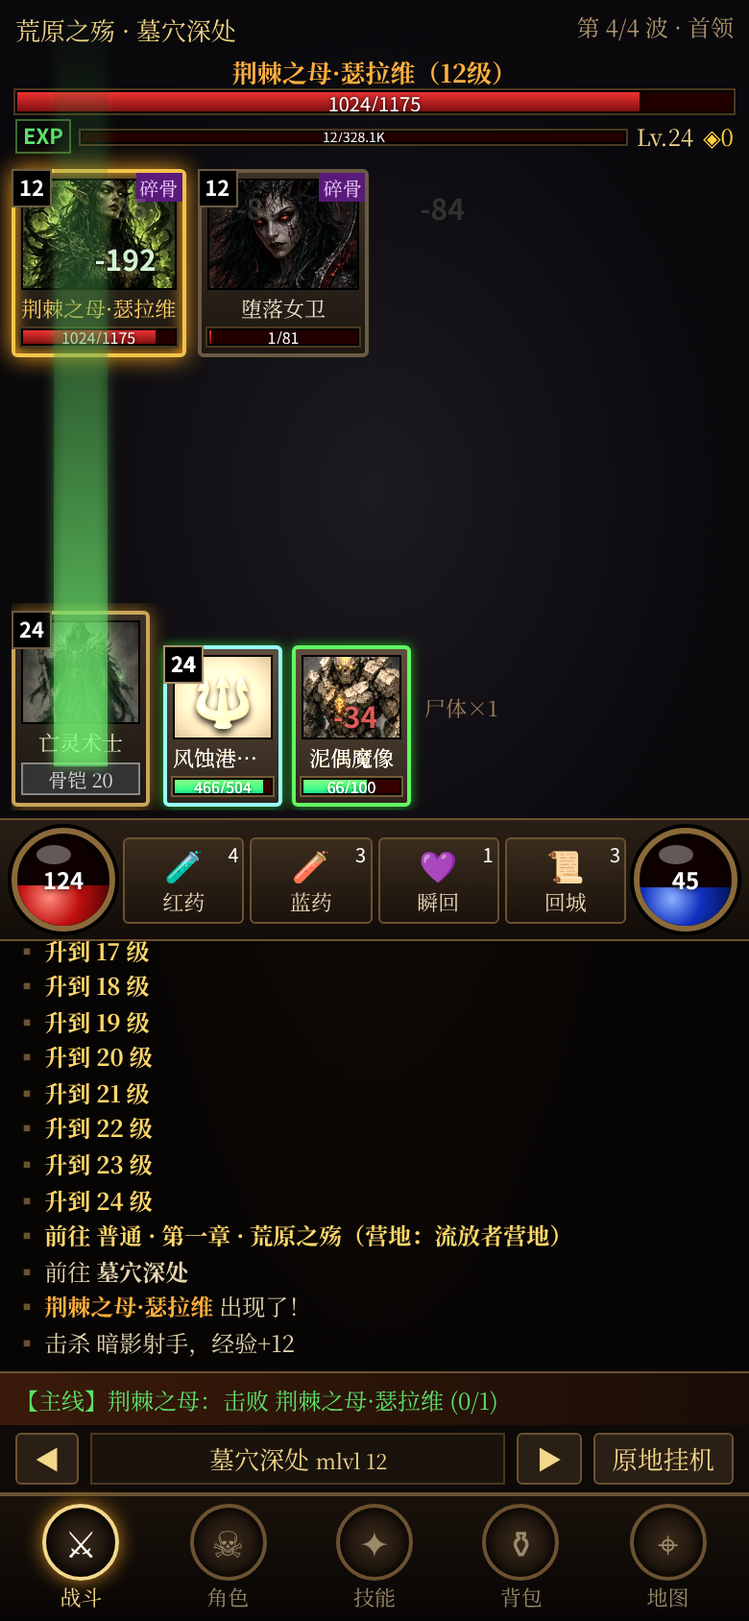
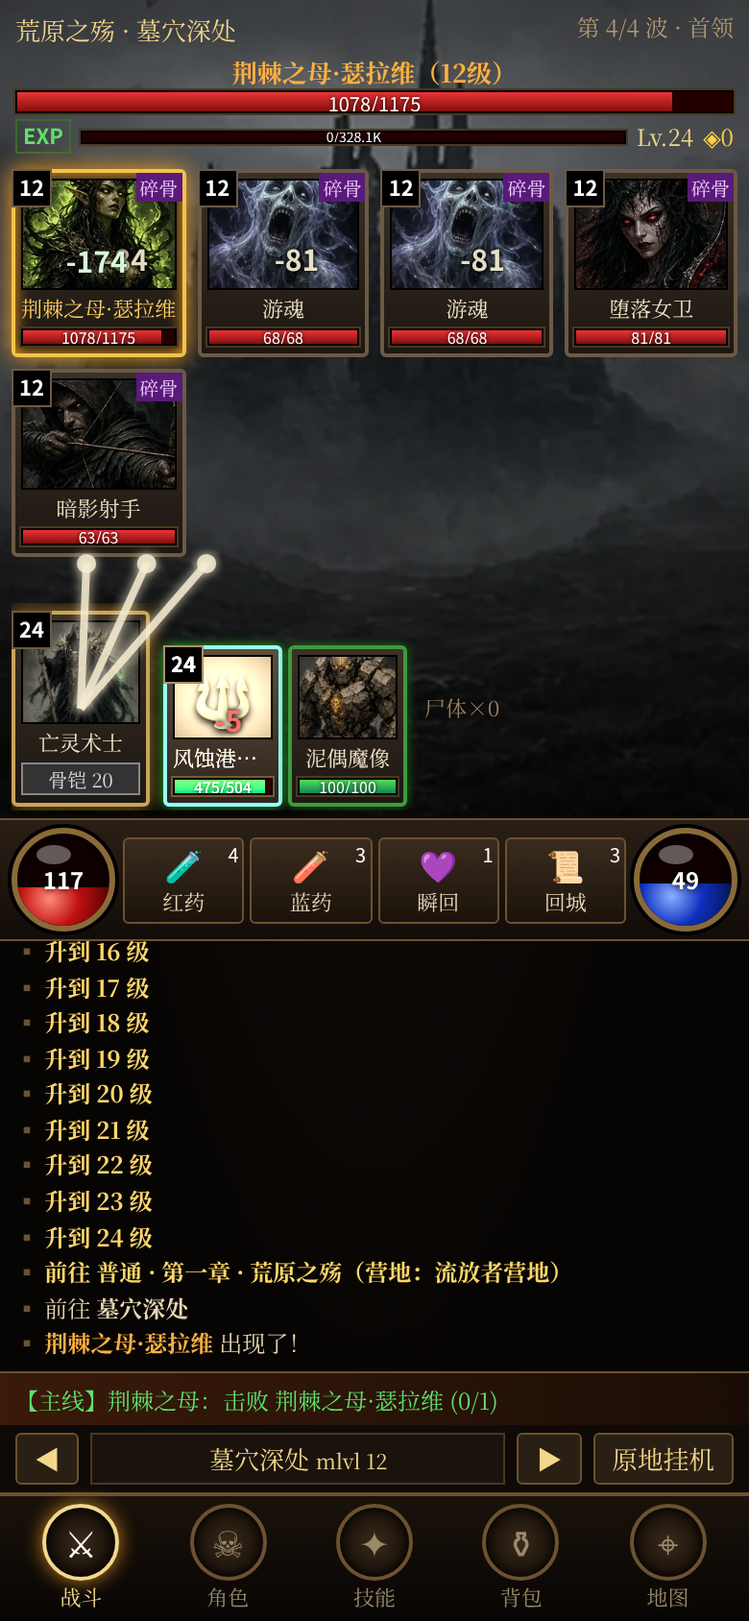
phase4: 二~五章怪物/首领/章节背景美术接入，难度调整(终点首领风险/连战受创/防卡死)，噩梦提速，自动加点续加骨魂，符文改编号显示

diff --git a/game.js b/game.js
@@ -31,7 +31,7 @@ function itemLocal(it){const b=BASEM[it.b],m=allMods(it),o={};
 function itemReq(it){const b=BASEM[it.b];let l=it.req||0;for(const x of it.soc||[])if(x.r!=null)l=Math.max(l,RUNES[x.r][1]);if(it.rw!=null)l=Math.max(l,RUNEWORDS[it.rw].lv);
  const f=it.q===0?0.8:1;return{lv:l,str:Math.floor((b.str||0)*f),dex:Math.floor((b.dex||0)*f)}}
 function canEquip(it){const r=itemReq(it),A=ST?ST.attr:S.at;return S.lvl>=r.lv&&A.str>=r.str&&A.dex>=r.dex}
-function itemName(it){if(it.k==='gem')return GEMG[it.lv]+GEMS[it.g].n;if(it.k==='rune')return RUNES[it.r][0]+' 符文';return it.rw!=null?RUNEWORDS[it.rw].n:it.name}
+function itemName(it){if(it.k==='gem')return GEMG[it.lv]+GEMS[it.g].n;if(it.k==='rune')return RUNES[it.r][0]+'符文';return it.rw!=null?RUNEWORDS[it.rw].n:it.name}
 function itemColor(it){if(it.k==='gem')return GEMS[it.g].c;if(it.k==='rune')return'#ffa040';if(it.rw!=null)return QC[8];if((it.q===1||it.q===2)&&it.sock)return'#a0a0a0';return QC[it.q]}
 function power(it){if(it.k)return 0;const m=allMods(it),l=itemLocal(it);let p=(l.def||0)*1+((l.min||0)+(l.max||0))*2;
  const w={str:3,dex:3,vit:4,ene:3,life:2,mana:1.5,ar:.2,fres:1.5,cres:1.5,lres:1.5,pres:1.2,allres:6,allsk:120,t0sk:60,t1sk:60,t2sk:60,fcr:3,mf:2,gf:.3,ll:8,ml:6,ias:3,regen:6,mpk:8,undead:.5,firemin:4,coldmin:4,lightmax:2,poisdmg:.3,tdef:1,dr:8,mdr:6,fhr:1.5,block:2,thorns:1,mregen:1,dmgmana:1,sumdmg:2,sumlife:2};
@@ -341,8 +341,8 @@ function addStat(k,n){n=Math.min(n,S.sp);S.at[k]+=n;S.sp-=n;calc();render()}
 
 // ===== 技能页 =====
 function renderSkills(){const P=$('#panel');const tabs=TREES.map((t,i)=>`<button class="${SKT===i?'on':''}" onclick="SKT=${i};render()">${t}</button>`).join('')+`<button class="${SKT===3?'on':''}" onclick="SKT=3;render()">符文图鉴</button>`;
- if(SKT===3){P.innerHTML=`<div class="stabs">${tabs}</div><div class="gp"><h3>符文图鉴</h3><div class="rgrid">${RUNES.map((r,i)=>S.found[i]?`<div class="rc on"><div class="ro">${r[0]}</div><b>${r[0]}符文</b><small>需求 ${r[1]} 级</small><small>武:${modsTxt(r[2])}</small><small>防:${modsTxt(r[3])}</small></div>`:`<div class="rc back"><div class="ro">?</div><small>未发现</small></div>`).join('')}</div></div>
-  <div class="gp"><h3>符文之语</h3>${RUNEWORDS.map(w=>`<div class="rw"><b class="uq">${w.n}</b> <span class="dim">${w.r.map(i=>RUNES[i][0]).join(' + ')} · ${w.cats.map(c=>({wand:'魔杖',dagger:'匕首',sword:'剑',helm:'头盔',armor:'铠甲',shield:'盾',head:'缩颅'})[c]).join('/')} ${w.r.length}孔 · 需求${w.lv}</span><div class="dim">${modsTxt(w.m)}</div></div>`).join('')}</div>`;return}
+ if(SKT===3){P.innerHTML=`<div class="stabs">${tabs}</div><div class="gp"><h3>符文图鉴</h3><div class="rgrid">${RUNES.map((r,i)=>S.found[i]?`<div class="rc on"><div class="ro">${i+1}</div><b>${r[0]}符文</b><small>需求 ${r[1]} 级</small><small>武:${modsTxt(r[2])}</small><small>防:${modsTxt(r[3])}</small></div>`:`<div class="rc back"><div class="ro">?</div><small>未发现</small></div>`).join('')}</div></div>
+  <div class="gp"><h3>符文之语</h3>${RUNEWORDS.map(w=>`<div class="rw"><b class="uq">${w.n}</b> <span class="dim">${w.r.map(i=>RUNES[i][0]).join('+')} · ${w.cats.map(c=>({wand:'魔杖',dagger:'匕首',sword:'剑',helm:'头盔',armor:'铠甲',shield:'盾',head:'缩颅'})[c]).join('/')} ${w.r.length}孔 · 需求${w.lv}</span><div class="dim">${modsTxt(w.m)}</div></div>`).join('')}</div>`;return}
  const list=SKILLS.filter(s=>s.t===SKT).sort((a,b)=>a.r-b.r||a.col-b.col);
  P.innerHTML=`<div class="stabs">${tabs}</div><div class="pts">技能点 <b>${S.kp}</b>　主攻：<b>${S.main?SKM[S.main].n:'自动'}</b>　诅咒：<b>${S.curse?SKM[S.curse].n:'自动'}</b></div>
  <div class="tree">${REQL.map((r,ri)=>`<div class="trow"><span class="rq">${r}</span>${[0,1,2].map(c=>{const s=list.find(x=>x.r===r&&x.col===c);return s?`<div class="tn ${bl(s.id)?'has':''} ${canLearn(s.id)?'can':''}" id="tn_${s.id}" onclick="skPop('${s.id}')">${skIcon(s)}<b>${bl(s.id)||''}</b></div>`:'<div class="tn void"></div>'}).join('')}</div>`).join('')}</div>
@@ -365,7 +365,7 @@ function learn(id){if(!canLearn(id))return;S.sk[id]=bl(id)+1;S.kp--;calc();skPop
 // ===== 背包/装备 =====
 function modsTxt(m){return Object.entries(m).map(([k,v])=>(MODT[k]||k+' {v}').replace('{v}',v)).join('，')}
 const SLOTG={weapon:'🪄',shield:'💀',helm:'⛑',armor:'🥋',gloves:'🧤',belt:'🎗',boots:'🥾',amulet:'📿',ring:'💍'};
-function itemIcon(it){if(it.k==='rune')return`<i class="ii rune">${RUNES[it.r][0]}</i>`;if(it.k==='gem')return`<i class="ii gem" style="--c:${GEMS[it.g].c}">◆</i>`;
+function itemIcon(it){if(it.k==='rune')return`<i class="ii rune">${it.r+1}</i>`;if(it.k==='gem')return`<i class="ii gem" style="--c:${GEMS[it.g].c}">◆</i>`;
  const b=BASEM[it.b];return`<i class="ii">${b.cat==='wand'?'🪄':b.cat==='dagger'?'🗡':b.cat==='sword'?'⚔':b.cat==='shield'?'🛡':SLOTG[slotOf(b)]}</i>`}
 function cell(it,on){return`<div class="cell q${it.q??'x'} ${it.rw!=null?'rw':''}" style="--c:${itemColor(it)}" onclick="${on}">${itemIcon(it)}${it.sock?`<em class="sk">${'●'.repeat((it.soc||[]).length)}${'○'.repeat(it.sock-(it.soc||[]).length)}</em>`:''}<small>${itemName(it)}</small></div>`}
 function renderBag(){const P=$('#panel');const doll=SLOTS.map(k=>{const it=S.eq[k];return it?`<div class="dslot">${cell(it,`showItem(${it.uid},'eq')`)}</div>`:`<div class="dslot"><div class="cell empty"><i class="ii">${SLOTG[k.startsWith('ring')?'ring':k]}</i><small>${SLOTN[k]}</small></div></div>`}).join('');
@@ -387,8 +387,8 @@ function showItem(uid){const f=findItem(uid);if(!f)return;const it=f.it;
  let base='';if(b.dmg){const enh=l.min!==it.dmg[0]||l.max!==it.dmg[1];base+=`<div>单手伤害：<span class="${enh?'g':''}">${l.min}-${l.max}</span>${enh?` <small class="dim">(基础 ${it.dmg[0]}-${it.dmg[1]})</small>`:''}</div>`}
  if(b.def){const enh=l.def!==it.def;base+=`<div>防御：<span class="${enh?'g':''}">${l.def}</span>${enh?` <small class="dim">(基础 ${it.def})</small>`:''}</div>`}if(b.block)base+=`<div>格挡：${b.block}%</div>`;
  const setT=it.set?`<div class="setsec"><b>${SETS[it.set].n}</b>（已装备 ${setCount()[it.set]||0} 件）${Object.entries(SETS[it.set].bonus).map(([n,bo])=>`<div class="${(setCount()[it.set]||0)>=+n?'g':'dim'}">${n}件：${modsTxt(bo)}</div>`).join('')}${SETITEMS.filter(x=>x.set===it.set).map(x=>`<div class="dim">· ${x.n}</div>`).join('')}</div>`:'';
- const rwT=it.rw!=null?`<div class="rwt">符文之语「${RUNEWORDS[it.rw].n}」『${RUNEWORDS[it.rw].r.map(i=>RUNES[i][0]).join('')}』</div><div class="g">${modsTxt(RUNEWORDS[it.rw].m)}</div>`:'';
- const socs=it.sock?`<div class="socks">${[...Array(it.sock)].map((_,i)=>{const x=it.soc[i];return x?`<span class="so on" style="--c:${x.g?GEMS[x.g].c:'#ffa040'}">${x.g?'◆':RUNES[x.r][0]}</span>`:'<span class="so"></span>'}).join('')}</div>
+ const rwT=it.rw!=null?`<div class="rwt">符文之语「${RUNEWORDS[it.rw].n}」『${RUNEWORDS[it.rw].r.map(i=>RUNES[i][0]).join('+')}』</div><div class="g">${modsTxt(RUNEWORDS[it.rw].m)}</div>`:'';
+ const socs=it.sock?`<div class="socks">${[...Array(it.sock)].map((_,i)=>{const x=it.soc[i];return x?`<span class="so on" style="--c:${x.g?GEMS[x.g].c:'#ffa040'}">${x.g?'◆':x.r+1}</span>`:'<span class="so"></span>'}).join('')}</div>
   <div>${it.soc.length?`<span class="g">${modsTxt(Object.fromEntries(Object.entries(sm).filter(([k])=>it.rw==null||!(k in RUNEWORDS[it.rw].m))))}</span>`:'<span class="dim">空凹槽可镶嵌宝石/符文；白色底材按配方顺序镶满符文可组成符文之语</span>'}</div>${rwT}`:'<span class="dim">无凹槽</span>';
  const cmp=f.slot?'':(()=>{const k=slotOf(b)==='ring'?'ring1':slotOf(b);const e=S.eq[k];return e?`<div class="dim">当前已装备：${itemName(e)}（战力 ${power(e)}）</div>`:''})();
  const canSock=it.sock>it.soc.length&&it.rw==null&&S.bag.some(x=>x.k);
@@ -415,9 +415,9 @@ function cubeUI(){const rec=[];const gc={},rc={};for(const x of S.bag){if(x.k===
  for(const k in gc)if(gc[k].length>=3)rec.push([`3×${itemName(gc[k][0])} → ${GEMG[gc[k][0].lv+1]}${GEMS[gc[k][0].g].n}`,`cubeGem('${k}')`]);
  for(const k in rc)if(rc[k].length>=3)rec.push([`3×${RUNES[k][0]}符文 → ${RUNES[+k+1][0]}符文`,`cubeRune(${k})`]);
  const has=(f)=>S.bag.find(f);const amu=has(x=>!x.k&&x.b==='amu'&&x.q===3),rin=has(x=>!x.k&&x.b==='rin'&&x.q===3);
- if(amu&&has(x=>x.k==='rune'&&x.r===7)&&has(x=>x.k==='gem'&&x.g==='ame'))rec.push(['魔法护符+炎符文+紫晶 → 施法护符(合成)',"craft('amu')"]);
- if(rin&&has(x=>x.k==='rune'&&x.r===10)&&has(x=>x.k==='gem'&&x.g==='rub'))rec.push(['魔法戒指+渴符文+赤玉 → 嗜血戒指(合成)',"craft('rin')"]);
- modal(`<div class="mtitle">炼金匣</div><div class="gp"><div class="dim">配方：3 同级同色宝石→升一级；3 同符文→下一枚(前10枚)；魔法护符+炎+紫晶→施法护符；魔法戒指+渴+赤玉→嗜血戒指</div>
+ if(amu&&has(x=>x.k==='rune'&&x.r===7)&&has(x=>x.k==='gem'&&x.g==='ame'))rec.push(['魔法护符+8号符文+紫晶 → 施法护符(合成)',"craft('amu')"]);
+ if(rin&&has(x=>x.k==='rune'&&x.r===10)&&has(x=>x.k==='gem'&&x.g==='rub'))rec.push(['魔法戒指+11号符文+赤玉 → 嗜血戒指(合成)',"craft('rin')"]);
+ modal(`<div class="mtitle">炼金匣</div><div class="gp"><div class="dim">配方：3 同级同色宝石→升一级；3 同符文→下一枚(前10枚)；魔法护符+8号+紫晶→施法护符；魔法戒指+11号+赤玉→嗜血戒指</div>
  ${rec.length?rec.map(([t,f])=>`<div class="row"><span>${t}</span><button class="btn xs gold" onclick="${f}">合成</button></div>`).join(''):'<div class="dim" style="margin:10px 0">背包中没有满足条件的材料</div>'}<div class="btns c"><button class="btn" onclick="closeM()">关闭</button></div></div>`)}
 function takeBag(f,n){for(let i=0;i<n;i++){const j=S.bag.findIndex(f);if(j>=0)S.bag.splice(j,1)}}
 function cubeGem(k){const g=k.slice(0,3),lv=+k.slice(3);takeBag(x=>x.k==='gem'&&x.g===g&&x.lv===lv,3);S.bag.push({uid:S.uid++,k:'gem',g,lv:lv+1});cubeUI();render()}
@@ -452,9 +452,11 @@ function offline(){const sec=(Date.now()-S.last)/1000;if(sec<60)return;const t=M
  modal(`<div class="mtitle">离线收益</div><div class="gp"><div>离线 ${Math.floor(t/3600)}小时${Math.floor(t%3600/60)}分（上限8小时，效率50%）</div><div>于 <b>${z.n}</b> 击杀 ${kills} 只怪物</div><div>经验 +${fmt(xp)}　金币 +${fmt(S.gold-g0)}</div>
  <div class="grid">${got.map(it=>cell(it,'')).join('')}</div><div class="btns c"><button class="btn gold" onclick="closeM()">收下</button></div></div>`)}
 // ===== 挂机自动化：自动加点/换装 =====
-const SK_ORDER=['rs','rs','rs','sm','te','ce','rs','sm','cg','ad','rm','bs','bs','bs','sm','rs','bs','bs','bs','bs','bs','wk','bx','bx','bx','bx','bx'];
+const SK_ORDER=['rs','rs','rs','sm','te','ce','rs','sm','cg','ad','rm','bs','bs','bs','sm','rs','bs','bs','bs','bs','bs','wk'];
+// 列表走完后：骨矛加满(20) → 骨铠/骨墙/骨牢(前置各 1) → 骨魂加满 → 骨巫/骨仆精通/骨仆
+const SK_FILL=()=>bl('bs')<20?['bs','sm','rs','te']:[...['ba','bw','bp'].filter(x=>!bl(x)),'bx','rm','sm','rs','cg','te'];
 function autoTick(){let ch={};ch=0;const learned=[];for(const[k,c]of[['hp',30],['mp',30]])while(S.pot[k]<8&&S.gold>=c*4){S.gold-=c;S.pot[k]++}
- if(S.autoSk)while(S.kp>0){const done={};const id=SK_ORDER.find(x=>{done[x]=(done[x]||0)+1;return bl(x)<done[x]&&canLearn(x)})||['bs','sm','rs','te'].find(canLearn);if(!id)break;S.sk[id]=bl(id)+1;S.kp--;ch=1;learned.push(SKM[id].n)}if(learned.length)log('自动加点：'+learned.join('、'));
+ if(S.autoSk)while(S.kp>0){const done={};const id=SK_ORDER.find(x=>{done[x]=(done[x]||0)+1;return bl(x)<done[x]&&canLearn(x)})||SK_FILL().find(canLearn);if(!id)break;S.sk[id]=bl(id)+1;S.kp--;ch=1;learned.push(SKM[id].n)}if(learned.length)log('自动加点：'+learned.join('、'));
  if(S.autoAt&&S.sp>0){const ns=needStr();while(S.sp>0){if(ST.attr.str<ns)S.at.str++;else if(ST.attr.ene<S.lvl+25&&S.at.ene<S.lvl+15)S.at.ene++;else S.at.vit++;S.sp--;calc()}ch=1}
  if(S.autoEq)for(const it of S.bag.slice()){if(it.k||!canEquip(it))continue;const b=BASEM[it.b];let k=slotOf(b);if(k==='ring')k=!S.eq.ring1?'ring1':!S.eq.ring2?'ring2':(power(S.eq.ring1)<power(S.eq.ring2)?'ring1':'ring2');
   if(!S.eq[k]||power(it)>power(S.eq[k])){const i=S.bag.indexOf(it);S.bag.splice(i,1);if(S.eq[k])S.bag.push(S.eq[k]);S.eq[k]=it;ch=1;log(`自动换装：<span style="color:${itemColor(it)}">${itemName(it)}</span>`)}}

diff --git a/acts.js b/acts.js
@@ -1,7 +1,7 @@
 'use strict';
 // ===== 第二阶段逻辑：章节/难度切换、怪物难度与免疫、精英词缀、怪物技能、多首领/波次首领、任务奖励、随从 =====
 // 通过包装 game.js 中的函数实现，尽量不改动 game.js 本体。
-const ACX={};const HSOFT=0.008,DSOFT=0.012;// 高等级怪物生命/伤害成长软化(近似调校)
+const ACX={};const HSOFT=0.008,DSOFT=0.018;// 高等级怪物生命/伤害成长软化(近似调校)
 const GATE=4;let MAPD=null;
 const MSLOT=['weapon','helm','armor'];
 const ELK=['fire','cold','light','pois'],ELN={phys:'物',fire:'火',cold:'冰',light:'电',pois:'毒',magic:'魔'};
@@ -38,7 +38,7 @@ function resFor(T,d,isBoss){const b=Object.assign({},T.res||{});if(!d)return b;c
  if(o&&!isBoss)Object.assign(r,o);else if(o)for(const k in o)r[k]=Math.min(90,o[k]);return r}
 const _mkMon=mkMon;mkMon=function(key,lv,flag){const m=_mkMon(key,lv,flag),T=MONS[key]||BOSSES[key],D=DIFFS[S.diff]||DIFFS[0];
  Object.assign(m.res,resFor(T,S.diff,!!BOSSES[key]));
- const hg=lv>25?1/(1+HSOFT*(lv-25)):1,dg=lv>25?1/(1+DSOFT*(lv-25)):1;m.max=m.hp=Math.round(m.max*D.hp*hg);m.dmg=m.dmg.map(x=>x*D.dmg*dg);m.exp=m.exp*expCurve(lv)*D.exp;m.sk=(T.sk||[]).slice();m.skT=2.5+rnd()*3;m.demon=T.demon;
+ const hg=lv>25?1/(1+HSOFT*(lv-25)):1,dg=lv>25?1/(1+DSOFT*(lv-25)):1;m.max=m.hp=Math.round(m.max*D.hp*hg);const bfm=BOSSES[key]&&S.bf?Math.max(0.5,Math.pow(0.8,S.bf[bfKey(key)]||0)):1;m.dmg=m.dmg.map(x=>x*D.dmg*dg*bfm);m.exp=m.exp*expCurve(lv)*D.exp;m.sk=(T.sk||[]).slice();m.skT=2.5+rnd()*3;m.demon=T.demon;
  if(flag==='uniq'){const ks=Object.keys(ELITE_AFF).filter(k=>!(k==='mb'&&false));const n=Math.min(3,D.naff||1);const aff=[];
   while(aff.length<n){const k=pick(ks);if(!aff.includes(k))aff.push(k)}for(const k of aff)ELITE_AFF[k].f(m);m.aff=aff.map(k=>ELITE_AFF[k].n);m.n=pick(UNIQ_T)+'·'+T.n}
  if(flag==='champ'){const v=pick(CHAMP_V);v.f(m);m.n=v.n+'·'+T.n}
@@ -129,7 +129,10 @@ const _zoneClear=zoneClear;zoneClear=function(){const z=zoneData(),zi=S.zone,a=S
  // 挂机推进门槛：角色等级 ≥ 下一区域怪物等级 - GATE 才自动前进，否则原地历练
  if(S.auto&&S.zone!==zi&&S.lvl<zs[S.zone].ml-GATE){log(`<span class="dim">${zs[S.zone].n} 推荐 ${zs[S.zone].ml-GATE} 级，先在 ${zs[zi].n} 历练</span>`);S.zone=zi}
  if(S.auto&&zi===zs.length-1&&S.q[ACTS[a].fq]){const n=nextStage();if(n){const nz=ACTS[n[0]].zones[0];if(S.lvl>=mlD(nz.ml0,n[1])-GATE)goAct(n[0],n[1],TAB!=='fight')}}};
-const _die=die;die=function(){const D=DIFFS[S.diff];if(D.dxp){const cur=S.xp-xpNeed(S.lvl),loss=Math.min(cur,Math.floor((xpNeed(S.lvl+1)-xpNeed(S.lvl))*D.dxp));if(loss>0){S.xp-=loss;log(`<b style="color:#f44">${D.n}死亡惩罚：经验 -${fmt(loss)}</b>`)}}
+// 首领"连战受创"：每次在其面前阵亡，该首领(本难度)伤害 ×0.8，最低 ×0.5 —— 保留死亡风险又不形成死墙
+function bfKey(k){return S.diff+'_'+k}
+const _die=die;die=function(){S.bf=S.bf||{};for(const m of MON)if(m.boss&&m.hp>0){const k=bfKey(m.key);S.bf[k]=(S.bf[k]||0)+1;log(`<span class="dim">${m.n} 在连战中受创（伤害 -${Math.round((1-Math.max(0.5,Math.pow(0.8,S.bf[k])))*100)}%）</span>`)}
+const D=DIFFS[S.diff];if(D.dxp){const cur=S.xp-xpNeed(S.lvl),loss=Math.min(cur,Math.floor((xpNeed(S.lvl+1)-xpNeed(S.lvl))*D.dxp));if(loss>0){S.xp-=loss;log(`<b style="color:#f44">${D.n}死亡惩罚：经验 -${fmt(loss)}</b>`)}}
  const keep=ALLY.filter(a=>a.kind==='merc');_die();ALLY=keep;H.curse=0;calc()};
 questLine=function(){const z=zoneData();let q=z.quest&&!S.q[z.quest]?z.quest:Object.keys(QUESTS).find(k=>QUESTS[k].act===S.act&&!S.q[k]);
  if(!q){const n=nextStage();return`【主线】${DIFFS[S.diff].n}·${ACTS[S.act].n.split('·')[1]} 已完成${n?'，可前往 '+DIFFS[n[1]].n+'·'+ACTS[n[0]].n.split('·')[1]:''}`}
@@ -175,8 +178,14 @@ function mercTick(dt){if(!S.merc)return;let a=ALLY.find(x=>x.kind==='merc');
 const _allyCard=allyCard;allyCard=function(a){if(a.kind!=='merc')return _allyCard(a);return`<div class="ac merc ${a.hitT>0?'hit':''}" id="ca${a.uid}"><b class="lv">${S.lvl}</b><div class="pt">${art('merc_'+S.merc.t,a.ic)}</div><div class="nm">${a.n}</div>${bar(a.hp,a.max,'hp g')}</div>`};
 const _monCard=monCard;monCard=function(m){let h=_monCard(m);if(m.imm&&m.imm.length)h=h.replace('<div class="pt">',`<em class="imm">${m.imm.map(x=>ELN[x]).join('')}免</em><div class="pt">`);return h};
 
+// ---------- 防卡死：自动推进时，场上有怪却 STUCK 秒既无击杀、怪物血量也无进展（如治疗型首领群耗尽法力）判定为僵持，撤回上一主线区域历练（不算死亡） ----------
+const STUCK=300;
+function stuckTick(dt){const ms=liveMon();const hp=ms.reduce((a,m)=>a+m.hp/m.max,0);
+ // 有击杀，或怪物总血量比本轮最低点再低 0.5%（仍在推进）则重置计时
+ if(!ms.length||S.kills!==ACX.k0||hp<(ACX.mh??1e9)-0.005){ACX.k0=S.kills;ACX.st=0;ACX.mh=hp;return}ACX.st=(ACX.st||0)+dt;
+ if(ACX.st>STUCK&&S.auto){ACX.st=0;ACX.stuckN=(ACX.stuckN||0)+1;{const k=ACTS[S.act].zones[S.zone].n;(ACX.stz=ACX.stz||{})[k]=(ACX.stz[k]||0)+1}log('<b style="color:#f84">久战不下，暂且撤退历练</b>');let z=Math.max(0,S.zone-1);while(z>0&&ACTS[S.act].zones[z].side)z--;goZone(z)}}
 // ---------- 主循环附加 ----------
-const _step=step;step=function(dt){_step(dt);if(!ST)return;monsTick(dt);mercTick(dt);ACX.eqT=(ACX.eqT||0)+dt;if(ACX.eqT>3){ACX.eqT=0;mercAutoEq()}};
+const _step=step;step=function(dt){_step(dt);if(!ST)return;stuckTick(dt);monsTick(dt);mercTick(dt);ACX.eqT=(ACX.eqT||0)+dt;if(ACX.eqT>3){ACX.eqT=0;mercAutoEq()}};
 
 // ---------- 物品：加凹槽 / 个性化 （任务奖励） ----------
 function addSock(uid){const f=findItem(uid);if(!f||S.sockq<=0)return;const it=f.it,b=BASEM[it.b];if(it.k||!b.sock||it.sock||it.rw!=null)return;
@@ -189,7 +198,7 @@ const _showItem=showItem;showItem=function(uid){_showItem(uid);const f=findItem(
  if(h)box.insertAdjacentHTML('afterbegin',h)};
 
 // ---------- UI：战斗页、角色页随从、地图页 ----------
-const _renderFight=renderFight;renderFight=function(){_renderFight();const e=document.querySelector('#ftop .zn');if(e&&S.diff)e.innerHTML=`<b class="diff d${S.diff}">${DIFFS[S.diff].n}</b> `+e.innerHTML};
+const _renderFight=renderFight;renderFight=function(){_renderFight();{const fb=$('#fbattle'),bk='bg_act'+(S.act+1);if(fb&&IMG[bk]){fb.style.backgroundImage=`linear-gradient(rgba(0,0,0,.45),rgba(0,0,0,.25) 35%,rgba(0,0,0,.7)),url(${IMG[bk]})`}}const e=document.querySelector('#ftop .zn');if(e&&S.diff)e.innerHTML=`<b class="diff d${S.diff}">${DIFFS[S.diff].n}</b> `+e.innerHTML};
 function mercPanel(){if(!S.mercU&&!S.merc)return`<div class="gp"><h3>随从</h3><div class="dim">完成第一章任务「堕落女猎手」后可获得随从。</div></div>`;
  let h='<div class="gp"><h3>随从</h3>';
  if(S.merc){const T=MERCS[S.merc.t],ms=mercStats();const row=(a,b)=>`<div class="row"><span>${a}</span><b>${b}</b></div>`;

diff --git a/items.js b/items.js
@@ -146,7 +146,7 @@ function cubeRecipes(){const rec=[];const gc={},rc={};
  for(const it of S.bag){if(it.k||it.q!==1||it.sock||it.rw!=null)continue;const b=BASEM[it.b];const cs=b.s==='weapon'?'weapon':b.s==='armor'?'armor':b.s==='helm'?'helm':b.s==='shield'?'shield':null;if(!cs||!maxSock(b,it.il))continue;
   const[r1,r2,g]=SOCKET_RECIPES[cs];if(bagHas(x=>x.k==='rune'&&x.r===r1)&&bagHas(x=>x.k==='rune'&&x.r===r2&&(r1!==r2))&&bagHas(gemOf(g,4)))rec.push([`${RUNES[r1][0]}+${RUNES[r2][0]}+完美${GEMS[g].n} + ${itemName(it)} → 随机凹槽`,`cubeSocket(${it.uid})`])}
  // 拆镶嵌：有镶嵌物的物品 + 简符文 + 回城卷轴 → 清空凹槽（镶嵌物销毁）
- if(bagHas(x=>x.k==='rune'&&x.r===14)&&S.pot.tp>0)for(const it of S.bag.concat(Object.values(S.eq)))if(it&&!it.k&&it.soc&&it.soc.length)rec.push([`${itemName(it)} + 简符文 + 回城卷轴 → 拆除镶嵌（镶嵌物销毁）`,`cubeUnsock(${it.uid})`]);
+ if(bagHas(x=>x.k==='rune'&&x.r===14)&&S.pot.tp>0)for(const it of S.bag.concat(Object.values(S.eq)))if(it&&!it.k&&it.soc&&it.soc.length)rec.push([`${itemName(it)} + 15号符文 + 回城卷轴 → 拆除镶嵌（镶嵌物销毁）`,`cubeUnsock(${it.uid})`]);
  // 合成：魔法底材 + 指定符文 + 完美宝石 + 任意宝石（代替珠宝）
  for(const ck in CRAFTS){const C=CRAFTS[ck];for(const it of S.bag){if(it.k||it.q!==3)continue;const part=C.parts[craftSlot(BASEM[it.b])];if(!part)continue;
   if(bagHas(x=>x.k==='rune'&&x.r===part[0])&&bagHas(gemOf(C.gem,4))&&S.bag.filter(x=>x.k==='gem').length>=2)rec.push([`${C.n}合成：${itemName(it)} + ${RUNES[part[0]][0]} + 完美${GEMS[C.gem].n} + 任意宝石`,`craft2('${ck}',${it.uid})`])}}
@@ -154,8 +154,8 @@ function cubeRecipes(){const rec=[];const gc={},rc={};
  if(S.pot.hp>=3&&S.pot.mp>=3&&chip.length)rec.push(['3 红药 + 3 蓝药 + 碎裂宝石 → 瞬回药剂',"cubePot()"]);
  return rec}
 function recipeHelp(){const C=Object.values(CRAFTS).map(c=>`${c.n}(完美${GEMS[c.gem].n})`).join('、');
- return `3 同级同色宝石→升一级；符文升级 晨~雷 3 枚，霜起 3 枚+宝石，磐起 2 枚+宝石；3 魔法戒指⇄护符；3 完美宝石+魔法=重铸；6 完美颅石+稀有=重铸；3 碎裂宝石+魔法武器=1 孔；
- 普通无孔底材加孔：甲(蚀+渴+完美黄玉)/武器(炎+渴+完美紫晶)/盔(炎+霜+完美蓝玉)/盾(蚀+渴+完美赤玉)；拆镶嵌：物品+简符文+回城卷轴（镶嵌物销毁）；合成：${C} + 部位符文 + 魔法底材 + 任意宝石`}
+ return `3 同级同色宝石→升一级；符文升级 1~9号 3 枚，10号起 3 枚+宝石，21号起 2 枚+宝石；3 魔法戒指⇄护符；3 完美宝石+魔法=重铸；6 完美颅石+稀有=重铸；3 碎裂宝石+魔法武器=1 孔；
+ 普通无孔底材加孔：甲(7号+10号+完美黄玉)/武器(8号+11号+完美紫晶)/盔(8号+10号+完美蓝玉)/盾(7号+11号+完美赤玉)；拆镶嵌：物品+15号符文+回城卷轴（镶嵌物销毁）；合成：${C} + 部位符文 + 魔法底材 + 任意宝石`}
 cubeUI=function(){const rec=cubeRecipes();
  modal(`<div class="mtitle">炼金匣</div><div class="gp"><div class="dim">${recipeHelp()}</div>
  ${rec.length?rec.map(([t,f])=>`<div class="row"><span>${t}</span><button class="btn xs gold" onclick="${f}">合成</button></div>`).join(''):'<div class="dim" style="margin:10px 0">背包中没有满足条件的材料</div>'}<div class="btns c"><button class="btn" onclick="closeM()">关闭</button></div></div>`)};

diff --git a/data_acts.js b/data_acts.js
@@ -6,7 +6,7 @@
 // ---------- 难度 ----------
 // pen 抗性惩罚；hp/dmg/exp 为在怪物等级成长之上的难度系数(近似)；dxp 死亡损失“本级所需经验”的比例
 Object.assign(DIFFS[0],{n:'普通',pen:0,hp:1,dmg:1,exp:1,dxp:0,lock:0,naff:1});
-Object.assign(DIFFS[1],{n:'噩梦',pen:-40,hp:1.3,dmg:0.85,exp:2.0,dxp:0.05,lock:0,naff:2});
+Object.assign(DIFFS[1],{n:'噩梦',pen:-40,hp:1.15,dmg:0.85,exp:2.8,dxp:0.05,lock:0,naff:2});
 Object.assign(DIFFS[2],{n:'地狱',pen:-100,hp:1.8,dmg:1.0,exp:2.6,dxp:0.10,lock:0,naff:3});
 // 区域怪物等级：普通 ml → 噩梦 36..68 / 地狱 67..85 线性映射（普通最高 45）
 function mlD(ml,d){if(!d)return ml;return d===1?Math.round(36+(ml-1)*32/44):Math.round(67+(ml-1)*18/44)}
@@ -103,9 +103,10 @@ Object.assign(BOSSES,{
 });
 
 // 数值调校(近似，挂机节奏)：第二章起的怪物家族生命 ×HPX；伤害 ×DMX；新首领伤害 ×BDX
-const HPX=1.6,DMX=0.65,BDX=0.5;
+// 难度调整(第四阶段)：怪物伤害 0.65→DMX；章节终点首领单独 ABX，使其有一定阵亡风险
+const HPX=1.6,DMX=0.68,BDX=0.55,ABX=1.25;
 for(const k in MONS)if(MONS[k].fam&&!MONS[k]._t){MONS[k]._t=1;MONS[k].hp*=HPX;MONS[k].dmg=MONS[k].dmg.map(x=>x*DMX)}
-for(const k of ['rotwarden','fangqueen','summoner','kassar','jadeguard','flaychief','tomekeeper','council1','council2','council3','mehet','fallen','forger','seal1','seal2','seal3','valax','siegelord','frostjailer','traitor','anc1','anc2','anc3','tw1','tw2','tw3','tw4','tw5','eldron'])BOSSES[k].dmg=BOSSES[k].dmg.map(x=>x*BDX);
+for(const k of ['rotwarden','fangqueen','summoner','kassar','jadeguard','flaychief','tomekeeper','council1','council2','council3','mehet','fallen','forger','seal1','seal2','seal3','valax','siegelord','frostjailer','traitor','anc1','anc2','anc3','tw1','tw2','tw3','tw4','tw5','eldron'])BOSSES[k].dmg=BOSSES[k].dmg.map(x=>x*(BOSSES[k].actboss?ABX:BDX));
 
 // ---------- 精英词缀（金色首领小队 / 蓝色精英小队） ----------
 const ELITE_AFF={
@@ -243,3 +244,11 @@ Object.assign(QUESTS,{
  a5q5:{act:4,n:'远古试炼',d:'同时击败三位远古英灵',rw:'大量经验'},
  a5q6:{act:4,n:'毁灭前夜',d:'击退王座五波守卫，于世界之心击败 毁灭领主·艾尔德隆',rw:'解锁下一难度',fin:1},
 });
+
+// ---------- 美术：第二~五章怪物/首领头像、章节战斗背景（assets/README.md） ----------
+for(const k of ['beetle','husk','jackal','serpent','fly','vulture','tombmage','leaper','spider','mosq','flayer','flshaman','frog','hulk','zealot','priest','vamp','corrupt',
+ 'fiend','hound','knight','venom','storm','pitlord','yeti','horror','minion','siren','mauler','wolf','wraith']){ASSETS['m_'+k]='assets/monster/'+k+'.webp';MONS[k].a='m_'+k}
+ASSETS.m_scarab='assets/monster/scarab.webp';// 装甲圣甲虫（备用/精英）
+for(const k of ['rotwarden','fangqueen','summoner','kassar','jadeguard','flaychief','tomekeeper','council1','council2','council3','mehet','fallen','forger','seal1','seal2','seal3','valax',
+ 'siegelord','frostjailer','traitor','anc1','anc2','anc3','tw1','tw2','tw3','tw4','tw5','eldron']){ASSETS['b_'+k]='assets/boss/'+k+'.webp';BOSSES[k].a='b_'+k}
+for(let i=1;i<=5;i++)ASSETS['bg_act'+i]='assets/bg/act'+i+'.webp';

diff --git a/data_items.js b/data_items.js
@@ -188,6 +188,8 @@ const NEW_RUNES=[
  ['寂',69,{indestr:1},{indestr:1}],
 ];
 RUNES.length=0;for(const r of NEW_RUNES)RUNES.push(r);
+// 面向玩家的符文名一律用编号（按需求等级顺序：原「晨」=1号 … 33号）；存档只存索引 r，无需迁移
+NEW_RUNES.forEach((r,i)=>{r.orig=r[0];r[0]=(i+1)+'号'});
 // 炼金匣符文升级（原版 1.11+）：前 9 次只需 3 枚；之后需宝石 [宝石, 级别]；Pul(20) 起只需 2 枚
 const RUNE_UP=[null,null,null,null,null,null,null,null,null,['top',0],['ame',0],['sap',0],['rub',0],['eme',0],['dia',0],['top',1],['ame',1],['sap',1],['rub',1],['eme',1],
  ['dia',1],['top',2],['ame',2],['sap',2],['rub',2],['eme',2],['dia',2],['top',3],['ame',3],['sap',3],['rub',3],['eme',3]];

diff --git a/tools/slice_art.py b/tools/slice_art.py
@@ -1,0 +1,117 @@
+# 切图：检测黑底上的卡片/竖条实际像素边界，去边框后输出 256px webp 头像与 512 宽背景
+import sys, numpy as np
+from PIL import Image, ImageEnhance
+SRC='/home/box/agent-data/agents/7850468d-16f1-47a1-827e-5a25d4a70296/assets/'
+OUT='/workspace/idle-arpg/assets/'
+def runs(prof,thr,minlen=40):
+    r=[];s=None
+    for i,v in enumerate(list(prof)+[0]):
+        if v>thr and s is None:s=i
+        elif v<=thr and s is not None:
+            if i-s>=minlen:r.append((s,i))
+            s=None
+    return r
+def detect(a):
+    # 背景近乎纯色：与背景亮度相差 >6 的像素视为"非背景"；整列/整行 >8% 非背景即属于卡片（含细边框）
+    g=a.mean(2); bg=np.median(np.concatenate([g[:,:8].ravel(),g[:,-8:].ravel()])); m=np.abs(g-bg)>6
+    cols=runs(m.mean(0),0.08); rows=runs(m.mean(1),0.08)
+    # 行方向再仅在卡片列范围内统计，避免列间缝影响
+    return cols,rows
+def inner(a,x0,x1,y0,y1):
+    # 从外缘向内收缩，直到越过细边框（边框像素行/列与内侧差异大），最多 12px，再额外内缩 3px
+    g=a.mean(2)
+    def edge(lines):
+        prev=None
+        for k,l in enumerate(lines):
+            if k>12:break
+            v=l.mean()
+            if prev is not None and abs(v-prev)<6 and k>=3:return k
+            prev=v
+        return 6
+    t=edge([g[y0+k,x0:x1] for k in range(14)]);b=edge([g[y1-1-k,x0:x1] for k in range(14)])
+    l=edge([g[y0:y1,x0+k] for k in range(14)]);r=edge([g[y0:y1,x1-1-k] for k in range(14)])
+    return x0+l+3,x1-r-3,y0+t+3,y1-b-3
+def square(im,yb=0.45):
+    w,h=im.size;s=min(w,h);x=(w-s)//2;y=int((h-s)*yb);return im.crop((x,y,x+s,y+s))
+def grid(fn,names,dst,ncol,nrow):
+    im=Image.open(SRC+fn).convert('RGB');a=np.asarray(im).astype(float)
+    cols,rows=detect(a);print(fn[:8],'cols',cols,'rows',rows)
+    assert len(cols)==ncol and len(rows)==nrow,(cols,rows)
+    for j,(y0,y1) in enumerate(rows):
+        for i,(x0,x1) in enumerate(cols):
+            n=names[j*ncol+i]
+            if not n:continue
+            bx=inner(a,x0,x1,y0,y1);c=im.crop((bx[0],bx[2],bx[1],bx[3]))
+            square(c,0.35).resize((256,256),Image.LANCZOS).save(f'{OUT}{dst}/{n}.webp',quality=86)
+            print(' ',n,bx)
+def bgs():
+    fn='45067118cad6f915047e219d062fe860d06d5ccdf42a6dfe19568434daa02e22.jpg'
+    im=Image.open(SRC+fn).convert('RGB');a=np.asarray(im).astype(float)
+    # 竖条之间是细暗缝：找列均值的局部低谷
+    cm=a.mean(2)[:300].mean(0);W=a.shape[1];cuts=[0]
+    for k in range(1,5):
+        c=int(W*k/5);lo=max(c-40,1);seg=cm[lo:c+40];x=lo+int(seg.argmin());cuts.append(x)
+    cuts.append(W);print('bg cuts',cuts)
+    # 上下黑边
+    rm=a.mean(2).mean(1);ys=[i for i,v in enumerate(rm) if v>8];y0,y1=ys[0],ys[-1]+1;print('bg rows',y0,y1)
+    for k in range(5):
+        c=im.crop((cuts[k]+3,y0,cuts[k+1]-3,y1));w,h=c.size
+        c=c.resize((512,round(h*512/w)),Image.LANCZOS)
+        c.save(f'{OUT}bg/act{k+1}.webp',quality=80);print(' act',k+1,c.size)
+if __name__=='__main__':
+    import os
+    for d in ['monster','boss','bg']:os.makedirs(OUT+d,exist_ok=True)
+    grid('bf439599131475933aff5e25a44a99cd1cdda8cf0239d8f08e71e86ef7d42bfe.jpg',['beetle','husk','jackal','serpent','fly','vulture','tombmage','leaper','scarab'],'monster',3,3)
+    grid('11b5488e3fc7b6b6124be7435121bfdb0b001e69f4808c5de4fa5cff1e6cd34e.jpg',['spider','mosq','flayer','flshaman','frog','hulk','zealot','priest','corrupt'],'monster',3,3)
+    grid('89e9b4deacad73a9c72a961c2fce185e669f2b0c6f3a20d71075353c5978a2af.jpg',['fiend','hound','knight','venom','storm','pitlord','yeti','horror','siren'],'monster',3,3)
+    grid('7b00257b566ef4f3feb7ed954aa76e91e57d8269d1149ff2b35d3234b7e386a0.jpg',['kassar','mehet','valax','eldron'],'boss',2,2)
+    bgs()
+
+# ---------- 复用图的变体（色调变换 / 放大） ----------
+from PIL import ImageOps
+def variant(src,dst,tint=None,amt=0.4,zoom=1.0,flip=False,sat=None):
+    im=Image.open(OUT+src).convert('RGB')
+    if zoom>1:w,h=im.size;s=int(w/zoom);x=(w-s)//2;y=int((h-s)*0.35);im=im.crop((x,y,x+s,y+s)).resize((256,256),Image.LANCZOS)
+    if flip:im=ImageOps.mirror(im)
+    if sat is not None:im=ImageEnhance.Color(im).enhance(sat)
+    if tint:
+        g=ImageOps.grayscale(im);c=ImageOps.colorize(g,black=(0,0,0),white=tint,mid=tuple(v//2 for v in tint))
+        im=Image.blend(im,c,amt)
+    im.save(OUT+dst,quality=86)
+RED=(255,90,70);ICE=(150,200,255);GOLD=(255,215,130);GREEN=(150,255,120);VIO=(200,130,255)
+VARS=[ # 第五章复用家族
+ ('monster/fiend.webp','monster/minion.webp',(255,150,60),0.35,1.0,True),
+ ('monster/pitlord.webp','monster/mauler.webp',ICE,0.45,1.1,True),
+ ('monster/hound.webp','monster/wolf.webp',ICE,0.6,1.0,True),
+ ('monster/ghost.webp','monster/wraith.webp',ICE,0.5,1.0,True),
+ ('monster/priest.webp','monster/vamp.webp',RED,0.45,1.1,True),
+ # 中小首领：同章怪物 + 红色调 + 放大
+ ('monster/husk.webp','boss/rotwarden.webp',GREEN,0.35,1.25,False),
+ ('monster/serpent.webp','boss/fangqueen.webp',RED,0.35,1.25,False),
+ ('monster/tombmage.webp','boss/summoner.webp',ICE,0.35,1.25,False),
+ ('monster/mosq.webp','boss/jadeguard.webp',GREEN,0.4,1.2,False),
+ ('monster/flayer.webp','boss/flaychief.webp',RED,0.4,1.25,False),
+ ('monster/priest.webp','boss/tomekeeper.webp',ICE,0.4,1.25,False),
+ ('monster/zealot.webp','boss/council1.webp',RED,0.4,1.25,False),
+ ('monster/priest.webp','boss/council2.webp',RED,0.4,1.3,True),
+ ('monster/zealot.webp','boss/council3.webp',VIO,0.4,1.3,True),
+ ('monster/fiend.webp','boss/fallen.webp',ICE,0.45,1.25,False),
+ ('monster/pitlord.webp','boss/forger.webp',RED,0.35,1.25,False),
+ ('monster/storm.webp','boss/seal1.webp',RED,0.3,1.25,False),
+ ('monster/knight.webp','boss/seal2.webp',RED,0.4,1.25,False),
+ ('monster/venom.webp','boss/seal3.webp',RED,0.3,1.25,True),
+ ('monster/fiend.webp','boss/siegelord.webp',GOLD,0.35,1.3,True),
+ ('monster/horror.webp','boss/frostjailer.webp',ICE,0.3,1.25,False),
+ ('monster/siren.webp','boss/traitor.webp',VIO,0.4,1.25,True),
+ ('monster/yeti.webp','boss/anc1.webp',GOLD,0.45,1.25,False),
+ ('monster/pitlord.webp','boss/anc2.webp',GOLD,0.45,1.3,True),
+ ('monster/knight.webp','boss/anc3.webp',GOLD,0.45,1.3,False),
+ ('monster/knight.webp','boss/tw1.webp',ICE,0.45,1.25,True),
+ ('monster/tombmage.webp','boss/tw2.webp',RED,0.45,1.25,True),
+ ('monster/fiend.webp','boss/tw3.webp',RED,0.4,1.35,False),
+ ('monster/venom.webp','boss/tw4.webp',GREEN,0.5,1.25,False),
+ ('monster/venom.webp','boss/tw5.webp',RED,0.35,1.35,True),
+]
+if __name__=='__main__':
+    for s,d,t,a,z,f in VARS:variant(s,d,t,a,z,f)
+    print('variants',len(VARS))

diff --git a/sim.py b/sim.py
@@ -8,7 +8,7 @@ with sync_playwright() as p:
     b=p.chromium.launch(executable_path='/home/box/.cache/ms-playwright/chromium-1248/chrome-linux64/chrome')
     pg=b.new_page(); errs=[]; pg.on('pageerror',lambda e:errs.append(str(e)))
     pg.goto('http://localhost:8090/'); pg.evaluate("localStorage.clear()"); pg.reload(); pg.wait_for_timeout(500)
-    pg.evaluate("""(()=>{TAB='map';render();SPEED=0;window.SIM={t:0,ev:[],deaths:0,done:{},kills0:0,dz:{}};const od=die;die=function(){SIM.deaths++;const k=S.diff+'_'+S.act;SIM.dz[k]=(SIM.dz[k]||0)+1;od()};
+    pg.evaluate("""(()=>{TAB='map';render();SPEED=0;window.SIM={t:0,ev:[],deaths:0,done:{},kills0:0,dz:{}};const od=die;die=function(){SIM.deaths++;const k=S.diff+'_'+S.act;SIM.dz[k]=(SIM.dz[k]||0)+1;if(S.act>0){const zn=S.diff+'_'+ACTS[S.act].zones[S.zone].n;SIM.dzn=SIM.dzn||{};SIM.dzn[zn]=(SIM.dzn[zn]||0)+1}od()};
       window.simRun=function(sec){let acc=0;const end=SIM.t+sec;while(SIM.t<end){step(0.05);SIM.t+=0.05;acc+=0.05;if(acc>=1){acc=0;autoTick();
         for(let d=0;d<3;d++)for(let a=0;a<5;a++){const k=d+'_'+a,fq=ACTS[a].fq,Q=(S.Q&&S.Q[d])||{};if(!SIM.done[k]&&Q[fq]){SIM.done[k]=1;SIM.ev.push({d,a,h:+(SIM.t/3600).toFixed(2),lv:S.lvl,deaths:SIM.deaths,kills:S.kills,gold:S.gold})}}}}
         return{h:+(SIM.t/3600).toFixed(2),lv:S.lvl,d:S.diff,a:S.act,z:S.zone,zn:ACTS[S.act].zones[S.zone].n,deaths:SIM.deaths,kills:S.kills,merc:S.merc?(S.merc.dead?'dead':ALLY.find(x=>x.kind==='merc')?.max):null,sk:JSON.stringify(S.sk),life:ST.life,res:ST.res}}})()""")
@@ -26,6 +26,7 @@ with sync_playwright() as p:
     print('\n== 各章通关（模拟挂机时间） ==')
     for e in ev:
         print(f"{['普通','噩梦','地狱'][e['d']]} 第{e['a']+1}章: 累计 {e['h']}h (本章 {e['h']-prev:.2f}h)  等级 {e['lv']}  累计死亡 {e['deaths']}  击杀 {e['kills']}"); prev=e['h']
-    print('死亡分布',pg.evaluate("JSON.stringify(SIM.dz)"))
+    print('死亡分布',pg.evaluate("JSON.stringify(SIM.dz)"),'僵持撤退',pg.evaluate("JSON.stringify([ACX.stuckN||0,ACX.stz])"))
+    print('二章起死亡区域',pg.evaluate("JSON.stringify(SIM.dzn||{})"))
     print('真实耗时 %.0fs'%(time.time()-t0),'JS错误',errs)
     b.close()

diff --git a/DESIGN.md b/DESIGN.md
@@ -210,3 +210,10 @@
 - 节奏调校（近似）：第二章起怪物生命×1.6、伤害×0.65，新首领伤害×0.5；ml>25 后生命/伤害成长软化；ml 13–60 经验额外系数（见 expCurve）；第二章起波数×1.8；30 级后经验表改为每级 ×1.1476（至 70）/×1.0444（70 后）。
 - 随从：第一章任务2 免费获得 荒原女射手；营地可雇佣 卫枪兵(光环)/铁狼术士(元素)/雪峰剑士(近战)；随从等级跟随角色(近似)，可穿 武器/头盔/铠甲，阵亡后清场花金币复活。
 - 任务奖励按难度重复发放：技能点(2-1, 4-1×2)、属性点+5(3-4)、生命+20(3-1)、全抗+10(5-3)、加凹槽(5-1)、个性化(5-4)、符文(5-2)、宝石+符文(4-2)、大量经验(5-5)。
+
+## 11. 第四阶段（美术接入 / 难度 / 符文编号）
+- 美术：`tools/slice_art.py` 自动检测黑底卡片/竖条的像素边界、去细边框后切成 256px webp：第二~五章怪物 `assets/monster/*.webp`（第五章 毁灭爪牙/断骨重锤/霜狼/怨灵、第三章 血裔领主 由同图色调变换），四位章节首领 `assets/boss/{kassar,mehet,valax,eldron}.webp`，其余中小首领为同章怪物图 + 色调 + 放大；`装甲圣甲虫` 备用 `m_scarab`。战斗背景 `assets/bg/act1-5.webp`（512 宽），按当前章节切换并叠加暗化渐变。映射在 data_acts.js 末尾写入 `ASSETS` 与 `MONS/BOSSES[k].a`。
+- 难度：第二章起怪物伤害 ×0.68（原 0.65）、普通新首领 ×0.55、章节终点首领 ×1.25；ml>25 后伤害软化 DSOFT 0.018。首领"连战受创"：每在某首领面前阵亡一次，该首领（本难度）伤害 ×0.8，最低 ×0.5，避免死墙。噩梦 生命×1.15、经验×2.8。
+- 防卡死：自动推进时场上有怪却 300 秒无击杀且怪物总血量无新低（如治疗型首领群），撤回上一主线区域历练（不计死亡）。
+- 自动加点：SK_ORDER 走完后骨矛加满 20 → 骨铠/骨墙/骨牢各 1（骨魂前置）→ 骨魂。
+- 符文：玩家可见名称一律为「1号符文」…「33号符文」（按需求等级顺序，原表 §4.6 的单字名仅作内部注释）；配方显示为「8号+12号」。存档只存索引，无需迁移。
